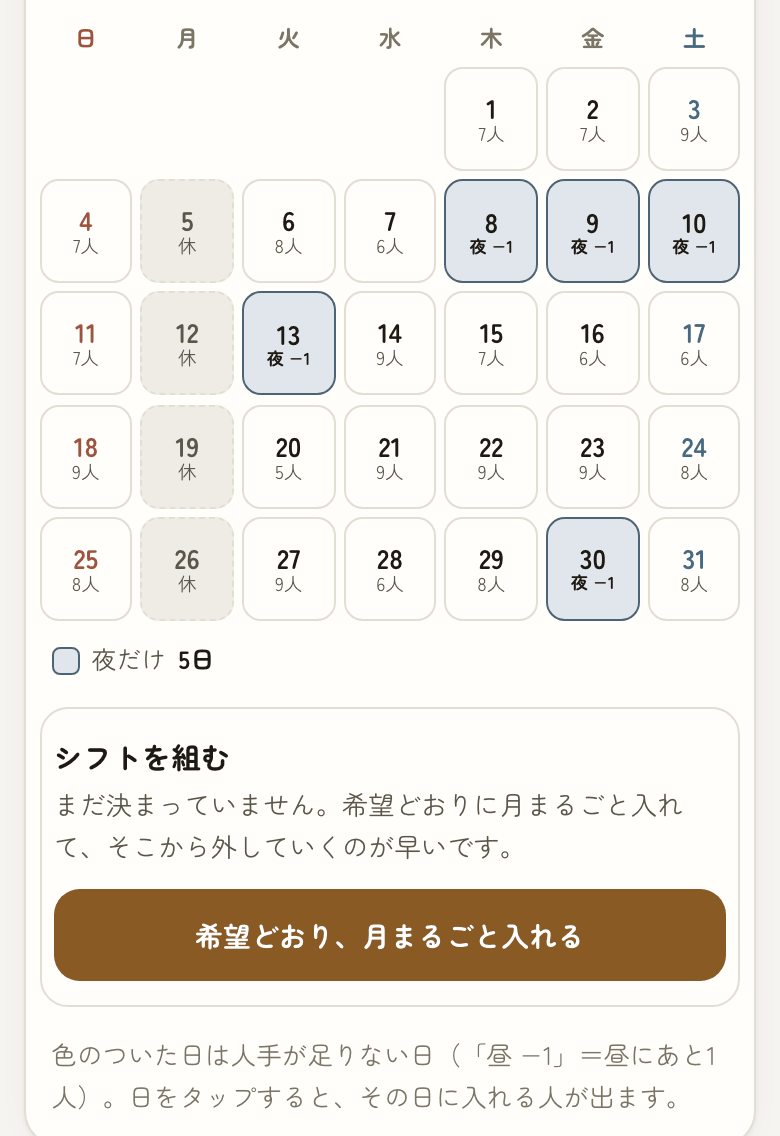
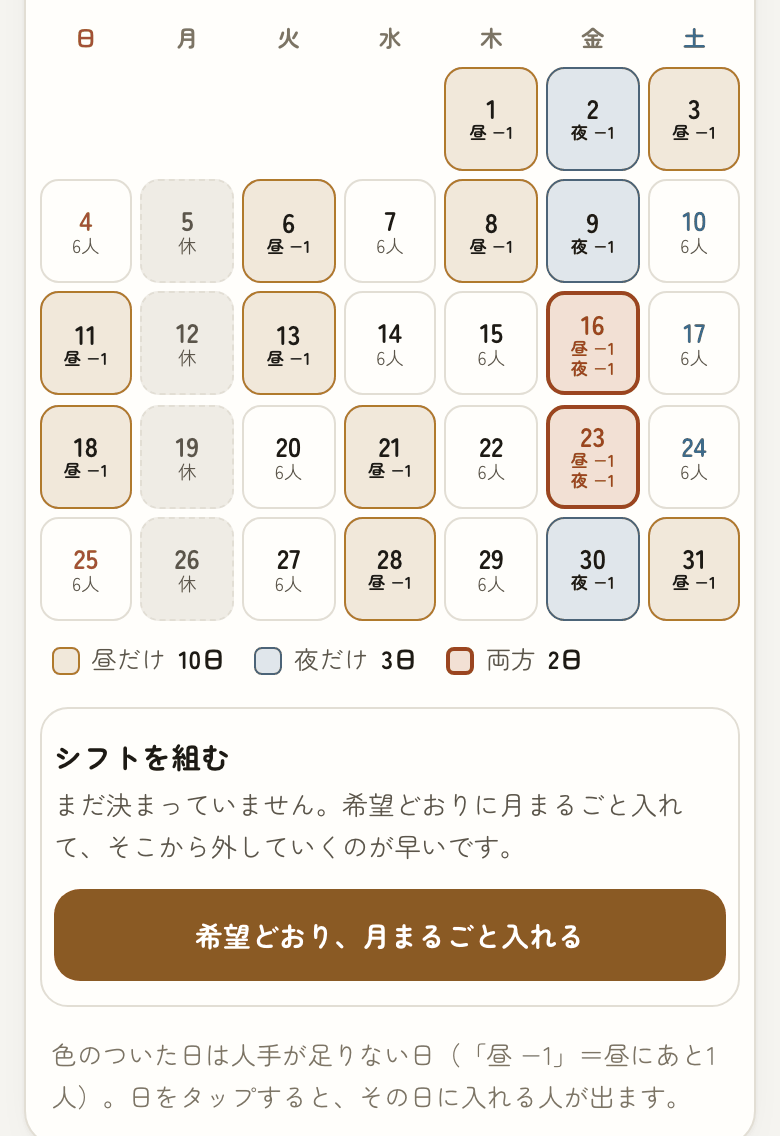
せんや：色分けの反証役の指摘を処置（ご案内ページの「赤」・説明書の文の順・両方の日は枠を太く・6つめの時間帯の数え方・暗い表示の顔料を主役の色と分けた・項目21の画像を3色の月に）
Claude-Session: https://claude.ai/code/session_01WrqmUkLrVrxaABpAh9Fi1G

diff --git a/tsumiki-senya-kanri.html b/tsumiki-senya-kanri.html
@@ -53,7 +53,7 @@
       --accent:#d59a4d; --accent-2:#e0ab63; --accent-wash:#3c2d18; --accent-fill:#d59a4d;
       --good:#7fae82; --good-wash:#23301f; --warn:#d9825a; --warn-wash:#39251a;
       --sat:#7fa8c4; --sun:#d4867a;
-      --p1:#d59a4d; --p1-wash:#362a19; --p3:#7fa8c4; --p3-wash:#1d2831; --p4:#8fae7f; --p4-wash:#22301f; --p6:#a894c4; --p6-wash:#2a2333; --p5:#c09a78; --p5-wash:#33271d;
+      --p1:#c9a063; --p1-wash:#362a19; --p3:#8fb4cc; --p3-wash:#1d2831; --p4:#8fae7f; --p4-wash:#22301f; --p6:#a894c4; --p6-wash:#2a2333; --p5:#c09a78; --p5-wash:#33271d;
       --shadow:0 1px 2px rgba(0,0,0,.3), 0 12px 30px -18px rgba(0,0,0,.65);
     }
   }
@@ -65,7 +65,7 @@
     --accent:#d59a4d; --accent-2:#e0ab63; --accent-wash:#3c2d18; --accent-fill:#d59a4d;
     --good:#7fae82; --good-wash:#23301f; --warn:#d9825a; --warn-wash:#39251a;
     --sat:#7fa8c4; --sun:#d4867a;
-    --p1:#d59a4d; --p1-wash:#362a19; --p3:#7fa8c4; --p3-wash:#1d2831; --p4:#8fae7f; --p4-wash:#22301f; --p6:#a894c4; --p6-wash:#2a2333; --p5:#c09a78; --p5-wash:#33271d;
+    --p1:#c9a063; --p1-wash:#362a19; --p3:#8fb4cc; --p3-wash:#1d2831; --p4:#8fae7f; --p4-wash:#22301f; --p6:#a894c4; --p6-wash:#2a2333; --p5:#c09a78; --p5-wash:#33271d;
     --shadow:0 1px 2px rgba(0,0,0,.3), 0 12px 30px -18px rgba(0,0,0,.65);
   }
   *{box-sizing:border-box;}
@@ -191,9 +191,11 @@
   .cell.short.lk0{background:var(--p1-wash); border-color:var(--p1);}
   .cell.short.lk1{background:var(--p3-wash); border-color:var(--p3);}
   .cell.short.lk2{background:var(--p4-wash); border-color:var(--p4);}
-  .cell.short.lk3{background:var(--p6-wash); border-color:var(--p6);}
-  .cell.short.lk4{background:var(--p5-wash); border-color:var(--p5);}
-  .cell.short[class*="lk"] .dn, .cell.short[class*="lk"] .lack{color:var(--ink);}
+  .cell.short.lk3{background:var(--p5-wash); border-color:var(--p5);}
+  .cell.short.lk4{background:var(--p6-wash); border-color:var(--p6);}
+  .cell.short.lk .dn, .cell.short.lk .lack{color:var(--ink);}
+  /* いちばん急ぐ「2つ以上足りない日」は、色だけでなく枠の太さでも分ける（昼だけの黄土と塗りが近いため） */
+  .cell.short:not(.lk){border-width:2.5px;}
   /* 色の見本（カレンダーのすぐ下） */
   .lklegend{display:flex; flex-wrap:wrap; gap:6px 14px; margin-top:10px; font-size:.78rem; color:var(--ink-mid);}
   .lklegend span{display:inline-flex; align-items:center; gap:6px; white-space:nowrap;}
@@ -1370,10 +1372,10 @@ function renderMonth(){
     const l=lackOn(key), isShort = anySubmitted && !rest && anyLack(key);
     /* 足りない時間帯が1つだけなら、その時間帯の色。2つ以上なら弁柄のまま */
     const lkIdx=slots().map((s,i)=>l[s.k]>0?i:-1).filter(i=>i>=0);
-    const lk = isShort ? ((slots().length>=2 && lkIdx.length===1 && lkIdx[0]<=4) ? lkIdx[0] : 'x') : null;   // 時間帯が1つのお店は今までどおり赤   // 6つめの時間帯は色が無いので弁柄
+    const lk = !isShort ? null : (slots().length<2 || lkIdx.length!==1) ? 'x' : (lkIdx[0]<=4 ? lkIdx[0] : 'o');   // 時間帯が1つのお店は今までどおり赤。6つめは色が無いので赤で塗り、見本は「◯◯だけ」   // 6つめの時間帯は色が無いので弁柄
     if(lk!=null) lkCount[lk]=(lkCount[lk]||0)+1;
     const e=document.createElement('div');
-    e.className='cell s'+w+(rest?' rest':'')+(isShort?' short'+(lk!=='x'?' lk'+lk:''):'')+(key===shop.today?' today':'');
+    e.className='cell s'+w+(rest?' rest':'')+(isShort?' short'+(typeof lk==='number'?' lk lk'+lk:''):'')+(key===shop.today?' today':'');
     let inner='<div class="dn">'+d+'</div>';
     if(rest) inner+='<div class="num">休</div>';
     else if(isShort){
@@ -1408,13 +1410,14 @@ function renderMonth(){
 /* 色の見本。時間帯が2つ以上あって、足りない日があるときだけ出す */
 function renderLkLegend(cnt){
   const box=document.getElementById('lkLegend'), sl=slots();
-  const PV=['--p1','--p3','--p4','--p6','--p5'];
+  const PV=['--p1','--p3','--p4','--p5','--p6'];   // DESIGN.md の順（黄土・藍・苔・鳶・紫紺）。弁柄は「両方」に使う
   const keys=Object.keys(cnt);
   if(sl.length<2 || !keys.length){ box.hidden=true; box.innerHTML=''; return; }
   let h='';
   sl.forEach((s,i)=>{ const k=String(i); if(i>4 || !cnt[k]) return;
     h+='<span><i style="background:var('+PV[k]+'-wash);border-color:var('+PV[k]+')"></i>'+esc(s.label)+'だけ <b>'+cnt[k]+'日</b></span>'; });
-  if(cnt.x) h+='<span><i style="background:var(--warn-wash);border-color:var(--warn)"></i>'+(sl.length===2?'両方':'2つ以上')+' <b>'+cnt.x+'日</b></span>';
+  if(cnt.o && sl[5]) h+='<span><i style="background:var(--warn-wash);border-color:var(--warn)"></i>'+esc(sl[5].label)+'だけ <b>'+cnt.o+'日</b></span>';
+  if(cnt.x) h+='<span><i style="background:var(--warn-wash);border-color:var(--warn);border-width:2.5px"></i>'+(sl.length===2?'両方':'2つ以上')+' <b>'+cnt.x+'日</b></span>';
   box.innerHTML=h; box.hidden=false;
 }
 
@@ -2902,6 +2905,7 @@ function tutMaybeStart(){
   })();
 </script>
 <!-- /tsumiki-license-gate -->
+
 
 
 

diff --git a/senya-goannai.html b/senya-goannai.html
@@ -201,7 +201,7 @@ footer{margin-top:52px; padding-top:22px; border-top:1px solid var(--line);
   </div>
 
   <!-- ① 簡潔な紹介 -->
-  <p class="as-about">スタッフは自分だけのURLをひらいて、<strong>働ける日をタップするだけ</strong>。店長の画面には全員ぶんが<strong>1枚のカレンダー</strong>で集まり、<strong>人手の足りない日が赤く</strong>出ます。</p>
+  <p class="as-about">スタッフは自分だけのURLをひらいて、<strong>働ける日をタップするだけ</strong>。店長の画面には全員ぶんが<strong>1枚のカレンダー</strong>で集まり、<strong>人手の足りない日に色がついて</strong>出ます。</p>
 
   <!-- 三本柱 -->
   <ul class="pts">
@@ -211,7 +211,7 @@ footer{margin-top:52px; padding-top:22px; border-top:1px solid var(--line);
     </div></li>
     <li><span class="n">02</span><div>
       <div class="t">足りない日が、開いた瞬間に分かる</div>
-      <div class="d">「昼は2人、夜は3人ほしい」を決めておくと、下回った日が赤く出ます。<b>「夜 −1」＝夜にあと1人</b>。探さなくても、向こうから出てきます。</div>
+      <div class="d">「昼は2人、夜は3人ほしい」を決めておくと、下回った日に色がつきます（昼だけ・夜だけ・両方で色が変わります）。<b>「夜 −1」＝夜にあと1人</b>。探さなくても、向こうから出てきます。</div>
     </div></li>
     <li><span class="n">03</span><div>
       <div class="t">決めたシフトは、紙にもスマホにも</div>
@@ -224,7 +224,7 @@ footer{margin-top:52px; padding-top:22px; border-top:1px solid var(--line);
 
   <p class="pv-group-k">店長の画面<span class="pv-group-en">MANAGER ／ iPhone</span></p>
   <div class="as-shots">
-    <figure class="as-shot"><div class="pv pv-zoomable"><img class="pv-img" src="senya-shots/senya-ph-list.png" alt="店長の一覧画面。足りない日が赤く出ている" loading="lazy" width="780" height="1688"></div><figcaption>足りない日が、赤で出る</figcaption></figure>
+    <figure class="as-shot"><div class="pv pv-zoomable"><img class="pv-img" src="senya-shots/senya-ph-list.png" alt="店長の一覧画面。足りない日に色がついている" loading="lazy" width="780" height="1688"></div><figcaption>足りない日に、色がつく</figcaption></figure>
     <figure class="as-shot"><div class="pv pv-zoomable"><img class="pv-img" src="senya-shots/senya-ph-day.png" alt="その日に入れる人の一覧" loading="lazy" width="780" height="1688"></div><figcaption>その日に入れる人を見る</figcaption></figure>
     <figure class="as-shot"><div class="pv pv-zoomable"><img class="pv-img" src="senya-shots/senya-ph-kime.png" alt="シフトを決める画面" loading="lazy" width="780" height="1688"></div><figcaption>名前を押して、シフトを決める</figcaption></figure>
     <figure class="as-shot"><div class="pv pv-zoomable"><img class="pv-img" src="senya-shots/senya-ph-table.png" alt="1か月ぶんのシフト表" loading="lazy" width="780" height="1688"></div><figcaption>1か月ぶんのシフト表</figcaption></figure>

diff --git a/tsumiki-senya-tsukaikata.html b/tsumiki-senya-tsukaikata.html
@@ -571,7 +571,7 @@
 <article class="item" id="i21">
       <div class="figs"><figure class="shot"><img src="senya-shots/k-cal.png" alt="足りない日に色がついたカレンダー" loading="lazy" decoding="async" width="780" height="1136"><figcaption>「夜 −1」＝夜にあと1人ほしい</figcaption></figure></div>
       <div class="txt"><h3><span class="n">21</span>カレンダーの読み方<span class="who-tag m">店長</span></h3>
-      <p>足りている日は<strong>その日に入れる人数だけ</strong>。足りない日は<strong>色がついて「夜 −1」</strong>と出ます。<strong>1つの時間帯だけ足りない日はその時間帯の色</strong>（1つめ＝黄土・2つめ＝藍）、<strong>2つ以上足りない日は赤</strong>です。カレンダーのすぐ下に、色の見本と日数が出ます。これは「夜にあと1人ほしい」という意味です。</p>
+      <p>足りている日は<strong>その日に入れる人数だけ</strong>。足りない日は<strong>色がついて「夜 −1」</strong>と出ます。これは「夜にあと1人ほしい」という意味です。<br><strong>1つの時間帯だけ足りない日はその時間帯の色</strong>（1つめ＝黄土・2つめ＝藍）、<strong>2つ以上足りない日は赤</strong>で、赤い日は枠も太くなります。カレンダーのすぐ下に、色の見本と日数が出ます。</p>
       <details class="more"><summary>くわしく</summary><div class="mb"><p class="fine">点線の「休」は定休日で、人数は数えません。四角い枠が出ている日は今日です。<br><strong>「行けたら」（△）の人は、この数には入れていません。</strong>あてにできる人だけで足りているかを見るためです。</p></div></details></div>
     </article>
 
